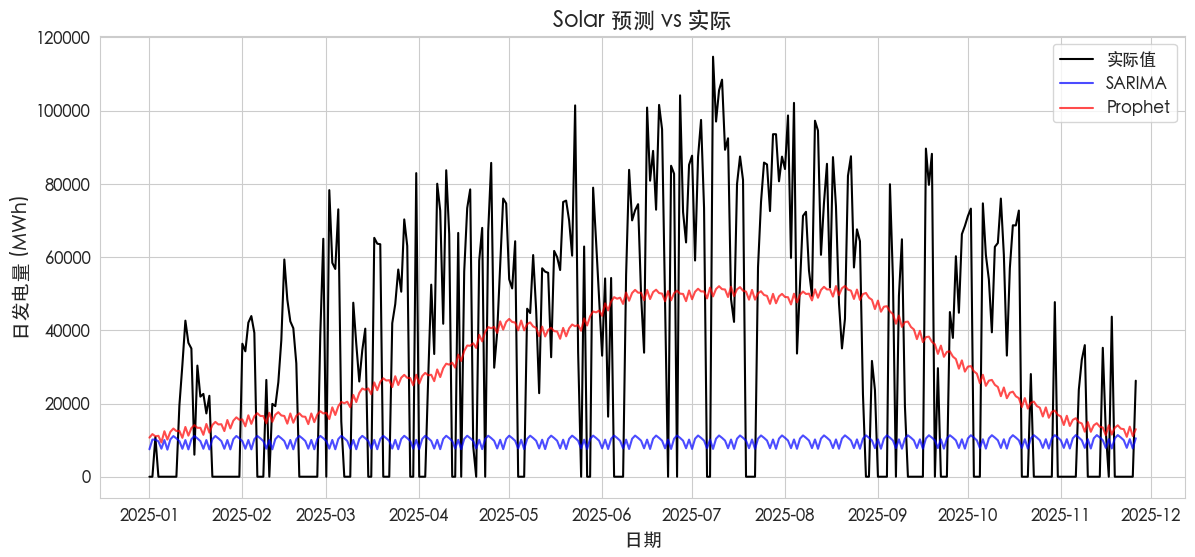
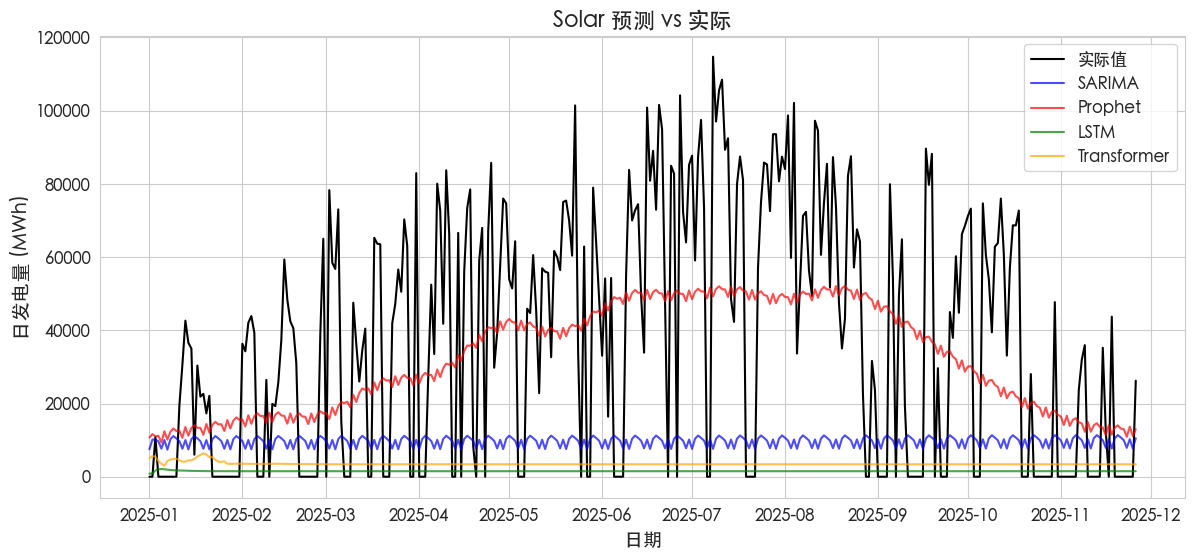
feat: 添加 LSTM 和 Transformer 模型支持，优化时间序列预测功能

Changed region(s): [[0.1238, 0.7935, 0.9598, 0.8546], [0.8669, 0.0916, 0.9908, 0.3052]]

diff --git a/scripts/05_time_series.py b/scripts/05_time_series.py
@@ -5,7 +5,7 @@
 
 数据准备：每小时 → 按日聚合，Wind/Solar 分别建模
 训练集：2020~2024 | 测试集：2025
-模型：ARIMA / SARIMA / Prophet / LSTM（可选）
+模型：SARIMA / Prophet / LSTM / Transformer
 评估：MSE、RMSE、MAPE
 
 可视化清单：
@@ -24,6 +24,11 @@ import matplotlib.pyplot as plt
 import warnings
 warnings.filterwarnings("ignore")
 
+import torch
+import torch.nn as nn
+from torch.utils.data import DataLoader as TorchDataLoader, TensorDataset
+from sklearn.preprocessing import MinMaxScaler
+
 from statsmodels.tsa.seasonal import seasonal_decompose
 from statsmodels.tsa.statespace.sarimax import SARIMAX
 from prophet import Prophet
@@ -32,12 +37,100 @@ from src.data_loader import DataLoader
 from src.evaluation import regression_metrics
 from src.visualization import setup_plot_style, save_fig
 
+DEVICE = torch.device("mps" if torch.backends.mps.is_available() else "cpu")
+SEQ_LEN = 30  # 用过去30天预测下一天
+EPOCHS = 80
+BATCH_SIZE = 32
+LR = 1e-3
+
 
 def mape(y_true, y_pred):
     """计算 MAPE"""
     y_true, y_pred = np.array(y_true), np.array(y_pred)
     mask = y_true != 0
     return np.mean(np.abs((y_true[mask] - y_pred[mask]) / y_true[mask])) * 100
+
+
+class LSTMModel(nn.Module):
+    def __init__(self, input_size=1, hidden_size=64, num_layers=2, dropout=0.2):
+        super().__init__()
+        self.lstm = nn.LSTM(input_size, hidden_size, num_layers,
+                            batch_first=True, dropout=dropout)
+        self.fc = nn.Linear(hidden_size, 1)
+
+    def forward(self, x):
+        out, _ = self.lstm(x)
+        return self.fc(out[:, -1, :])
+
+
+class TransformerModel(nn.Module):
+    def __init__(self, input_size=1, d_model=64, nhead=4, num_layers=2, dropout=0.2):
+        super().__init__()
+        self.input_proj = nn.Linear(input_size, d_model)
+        self.pos_enc = nn.Parameter(torch.randn(1, SEQ_LEN, d_model) * 0.01)
+        encoder_layer = nn.TransformerEncoderLayer(
+            d_model=d_model, nhead=nhead, dim_feedforward=128,
+            dropout=dropout, batch_first=True
+        )
+        self.encoder = nn.TransformerEncoder(encoder_layer, num_layers=num_layers)
+        self.fc = nn.Linear(d_model, 1)
+
+    def forward(self, x):
+        x = self.input_proj(x) + self.pos_enc
+        x = self.encoder(x)
+        return self.fc(x[:, -1, :])
+
+
+def create_sequences(data, seq_len):
+    """将一维序列转为 (X, y) 滑窗样本"""
+    X, y = [], []
+    for i in range(len(data) - seq_len):
+        X.append(data[i:i + seq_len])
+        y.append(data[i + seq_len])
+    return np.array(X), np.array(y)
+
+
+def train_torch_model(model, train_series, test_series, model_name):
+    """通用 PyTorch 模型训练 + 预测流程"""
+    scaler = MinMaxScaler()
+    train_scaled = scaler.fit_transform(train_series.values.reshape(-1, 1)).flatten()
+    full_scaled = scaler.transform(
+        np.concatenate([train_series.values, test_series.values]).reshape(-1, 1)
+    ).flatten()
+
+    X_train, y_train = create_sequences(train_scaled, SEQ_LEN)
+    X_train = torch.FloatTensor(X_train).unsqueeze(-1).to(DEVICE)
+    y_train = torch.FloatTensor(y_train).unsqueeze(-1).to(DEVICE)
+
+    dataset = TensorDataset(X_train, y_train)
+    loader = TorchDataLoader(dataset, batch_size=BATCH_SIZE, shuffle=True)
+
+    model = model.to(DEVICE)
+    optimizer = torch.optim.Adam(model.parameters(), lr=LR)
+    criterion = nn.MSELoss()
+
+    model.train()
+    for epoch in range(EPOCHS):
+        for xb, yb in loader:
+            optimizer.zero_grad()
+            loss = criterion(model(xb), yb)
+            loss.backward()
+            optimizer.step()
+
+    # 滚动预测测试集
+    model.eval()
+    preds = []
+    # 用训练集最后 SEQ_LEN 天作为初始窗口
+    window = list(train_scaled[-SEQ_LEN:])
+    with torch.no_grad():
+        for _ in range(len(test_series)):
+            x = torch.FloatTensor([window[-SEQ_LEN:]]).unsqueeze(-1).to(DEVICE)
+            pred = model(x).cpu().item()
+            preds.append(pred)
+            window.append(pred)
+
+    preds = scaler.inverse_transform(np.array(preds).reshape(-1, 1)).flatten()
+    return preds
 
 
 def forecast_source(df_source, source_name):
@@ -114,6 +207,34 @@ def forecast_source(df_source, source_name):
     except Exception as e:
         print(f"Prophet 失败: {e}")
 
+    #LSTM
+    print(f"\n训练 LSTM ({source_name})...")
+    try:
+        lstm_model = LSTMModel(input_size=1, hidden_size=64, num_layers=2)
+        lstm_preds = train_torch_model(lstm_model, train["Production"], test["Production"], "LSTM")
+        lstm_pred_series = pd.Series(lstm_preds, index=test.index)
+
+        metrics = regression_metrics(test["Production"], lstm_pred_series)
+        metrics["MAPE"] = mape(test["Production"], lstm_preds)
+        results["LSTM"] = {"pred": lstm_pred_series, "metrics": metrics}
+        print(f"LSTM: {metrics}")
+    except Exception as e:
+        print(f"LSTM 失败: {e}")
+
+    #Transformer
+    print(f"\n训练 Transformer ({source_name})...")
+    try:
+        transformer_model = TransformerModel(input_size=1, d_model=64, nhead=4, num_layers=2)
+        transformer_preds = train_torch_model(transformer_model, train["Production"], test["Production"], "Transformer")
+        transformer_pred_series = pd.Series(transformer_preds, index=test.index)
+
+        metrics = regression_metrics(test["Production"], transformer_pred_series)
+        metrics["MAPE"] = mape(test["Production"], transformer_preds)
+        results["Transformer"] = {"pred": transformer_pred_series, "metrics": metrics}
+        print(f"Transformer: {metrics}")
+    except Exception as e:
+        print(f"Transformer 失败: {e}")
+
     if not results:
         print(f"{source_name}: 所有模型都失败了")
         return
@@ -121,7 +242,7 @@ def forecast_source(df_source, source_name):
     #图2: 预测曲线 vs 实际曲线
     fig, ax = plt.subplots(figsize=(14, 6))
     ax.plot(test.index, test["Production"], label="实际值", color="black", linewidth=1.5)
-    colors = ["blue", "red", "green"]
+    colors = ["blue", "red", "green", "orange", "purple"]
     for idx, (name, data) in enumerate(results.items()):
         ax.plot(test.index, data["pred"], label=f"{name}", color=colors[idx], alpha=0.7)
     ax.set_xlabel("日期")

diff --git a/ARCH.md b/ARCH.md
@@ -69,7 +69,7 @@ Wind&Solar-Energy-Production-Dataset/
 | `02_regression.py` | §任务1 — Linear/Ridge/Lasso/DecisionTree/RandomForest/XGBoost 回归对比、特征重要性、预测 vs 真实散点图 | `outputs/regression/` |
 | `03_classification.py` | §任务2 — LogisticRegression/KNN/DecisionTree/RandomForest/SVM/XGBoost 分类、`class_weight='balanced'` 不均衡处理、ROC 曲线、混淆矩阵 | `outputs/classification/` |
 | `04_clustering.py` | §任务3 — K-Means/DBSCAN/Agglomerative 聚类、肘部法则、PCA 降维散点图、聚类 vs 真实标签对比、树状图 | `outputs/clustering/` |
-| `05_time_series.py` | §任务4 — 日聚合、Wind/Solar 分别建模、SARIMA/Prophet 时序预测、时序分解图、预测曲线、残差分析、置信区间 | `outputs/time_series/` |
+| `05_time_series.py` | §任务4 — 日聚合、Wind/Solar 分别建模、SARIMA/Prophet/LSTM/Transformer 时序预测、时序分解图、预测曲线、残差分析、置信区间 | `outputs/time_series/` |
 
 ---
 
@@ -100,4 +100,5 @@ scikit-learn            — 回归、分类、聚类、评估
 xgboost                 — 梯度提升模型
 statsmodels             — SARIMA 时间序列
 prophet                 — Facebook Prophet 时间序列预测
+torch (PyTorch)         — LSTM、Transformer 深度学习模型
 ```
